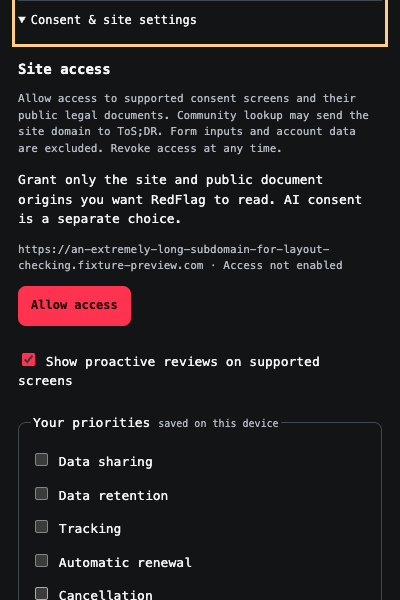
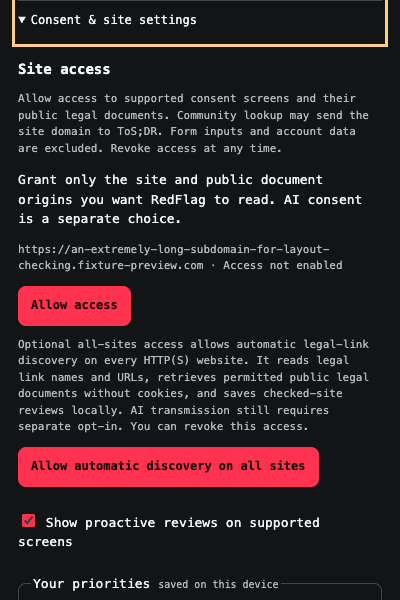
Verify compact popup against ordinary-site discovery with AI off

diff --git a/docs/design/popup-clarity-verification.md b/docs/design/popup-clarity-verification.md
@@ -1,0 +1,11 @@
+# Compact popup verification — 2026-10-11
+
+Based on local main `99997f5` in separate branch `codex/popup-clarity`. Owned presentation commits `18048bd` and `47073fc`; API dependency `8efd5a7`, runtime dependency `6cdec2c` integrated unchanged from discovery worker. No merge performed.
+
+Unknown grades use fixed-size `?` with accessible `Unrated` label. Supported A–F use readable green/amber/pink tokens. Empty/restricted pages have no grade summary or invented absent policy rows. Only discovered documents get concise independent rows. Scope/graded/pending counts remain explicit; evidence expands on demand with exact quotations and source links. Settings/consent unchanged. Ordinary-site Re-check works without AI consent; Analyze remains disabled while AI is off.
+
+Passed strict TypeScript/build and existing browser/action/UI suites. Updated `tests/popup-redesign.mjs` tests synthetic states in actual unpacked Chromium: empty no cards/rows, permission-empty CTA, partial/Unrated `?` without overflow, supported grade colors, no horizontal overflow, long domains/names, keyboard/settings, persisted consent, source-logo/font fallback, missing docs, main-state header visible in screenshot. `node tests/popup-current-tab.mjs` tests actual popup/service-worker ordinary footer discovery, current domain, browsing context, no consent overlay, AI-off Analyze disabled and Re-check refetch without opt-in. Public-document response is simulated; no live AI call.
+
+Screenshots: [manifest](clarity-screenshots/manifest.json), 15 captures including restricted, empty, permission setup, pending, partial, rated, Unrated, AI-off, settings, recent, exact expanded evidence and separately labeled unchanged consent overlay. Main states capture top-of-popup header; evidence/settings/recent intentionally show expanded/scrolled detail. Synthetic review/provider labels are retained. Temporary system monospace remains; Monoglyphic is unfinished pending authorized file and embedding/distribution permission.
+
+Coordinator integrates approved discovery worker/runtime and separately updates simulator/release. This branch does not modify backend, history, dashboard or simulator ownership.
